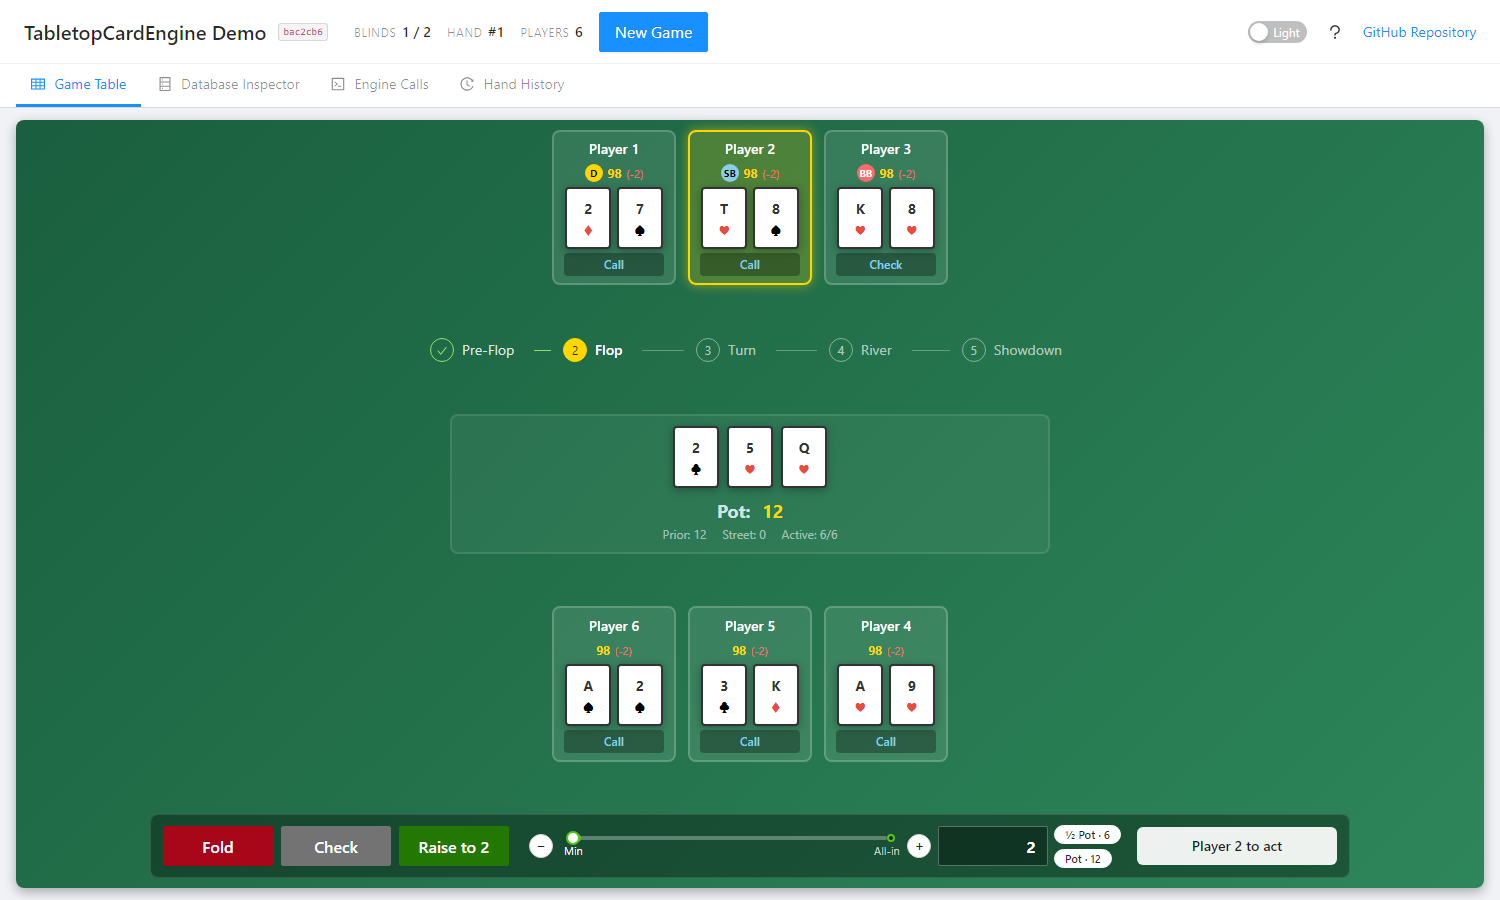
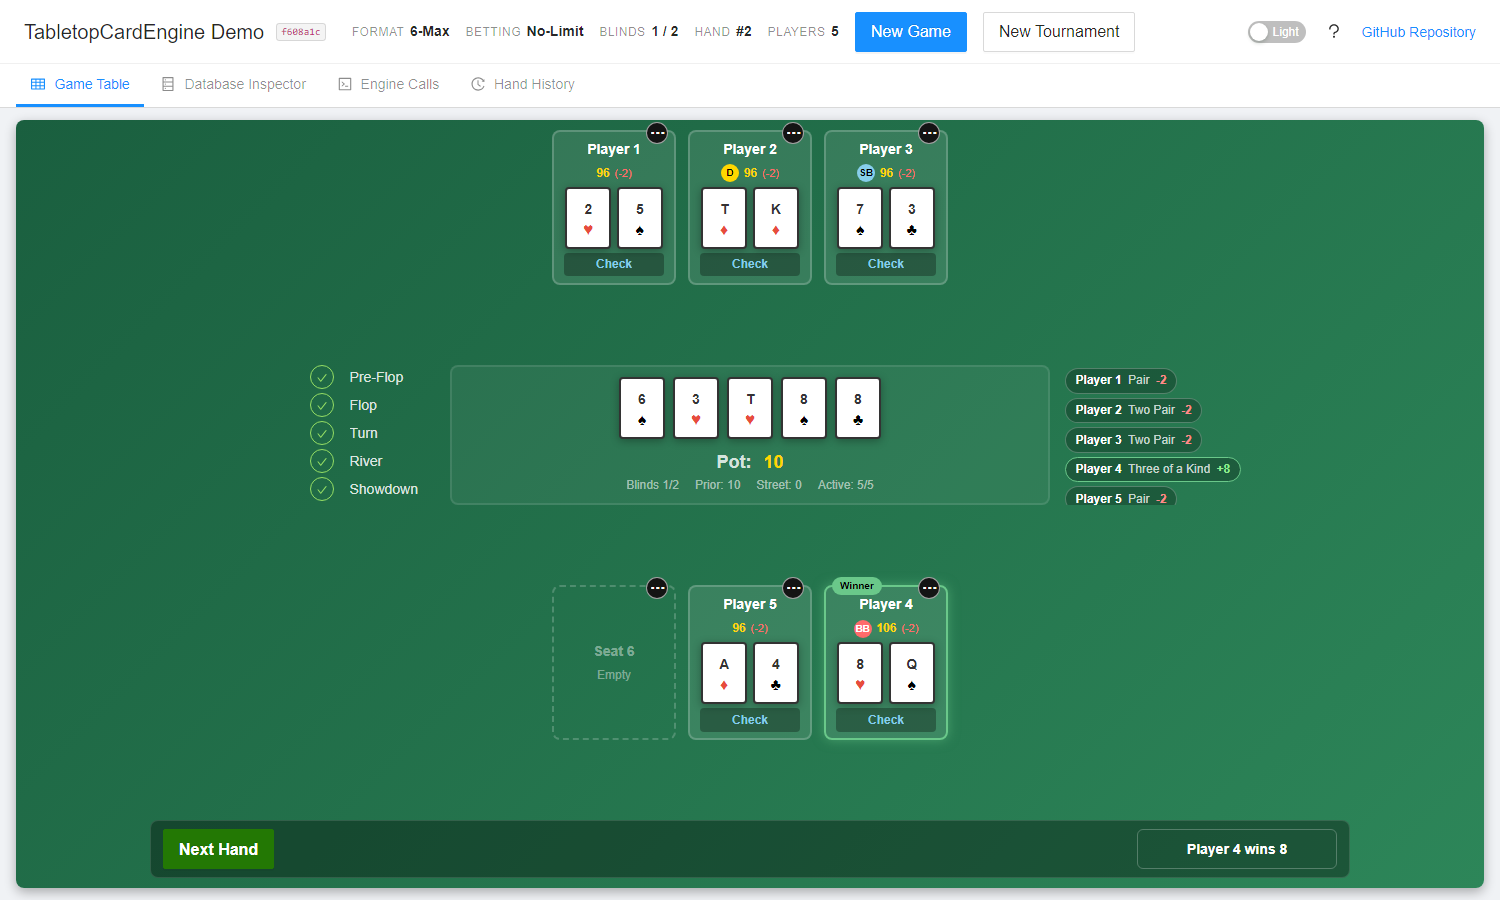
ci(demo): deploy the demo from a signed demo-* tag and refresh the README screenshot (#811)
deploy-demo.yml also accepts demo-YYYY.MM.N, dispatched by hand, with the same
signature check as a release tag. Docs updated; demo.png retaken at 1500x900.

diff --git a/docs/release-process.md b/docs/release-process.md
@@ -66,13 +66,13 @@ A failed tag verification in CI (the tag is unsigned, lightweight, or signed by 
 | Stage | Workflow | Waits for | Runs | Attestations |
 |---|---|---|---|---|
 | `create-release` | `create-release.yml` | `build`, `providers`, `docker` | every tag | none |
-| `deploy-demo` | `deploy-demo.yml` | `build`, `providers` | a tag without `-` only; its job also skips itself while the repository is private | none |
+| `deploy-demo` | `deploy-demo.yml` | `build`, `providers` | a tag without `-` only (from `release.yml`); by hand also a `demo-YYYY.MM.N` tag (see [Deploying the demo between releases](#deploying-the-demo-between-releases)) | none |
 | `publish-nuget` | `publish-nuget.yml` | `create-release` | only when `TCE_PUBLISH` is `enabled` (see [Publishing](#publishing)) | `.nupkg`, `.snupkg`, and extracted DLLs |
 | `publish-docker` | `publish-docker.yml` | `create-release` | only when `TCE_PUBLISH` is `enabled` | pushed image digests |
 
 - `create-release.yml` writes the notes with `git-cliff --latest` and creates the GitHub Release with them. The release carries **no packages**: no `.nupkg`, `.snupkg` or image is attached, and `publish-nuget.yml` packs from the tag itself. If the release already exists, the workflow fails with an error; deleting it is the maintainer's decision.
 - A tag that contains `-` (`v1.0.0-preview.1`, `v1.0.0-rc.1`) makes a pre-release.
-- Each of the four workflows checks out `refs/tags/<tag>` with full history, because MinVer reads the version from the tag at `HEAD`, and rejects a `tag` that is not `vX.Y.Z` or `vX.Y.Z-suffix` or does not exist.
+- Each of the four workflows checks out `refs/tags/<tag>` with full history, because MinVer reads the version from the tag at `HEAD`, and rejects a `tag` that is not `vX.Y.Z` or `vX.Y.Z-suffix` (`deploy-demo.yml` also accepts `demo-YYYY.MM.N`) or does not exist.
 - A failure in `build`, `providers` or `docker` leaves no release. The fix is a new tag, never a moved one.
 
 ### Re-running one stage
@@ -87,6 +87,22 @@ gh workflow run publish-docker.yml -f tag=v1.0.0-preview.1
 ```
 
 The tag comes from the input, never from the branch the dispatch runs on. A manual run does not repeat the verification jobs of `release.yml`, so run a stage by hand only for a tag whose release run got past them.
+
+### Deploying the demo between releases
+
+When the demo changed and the change should go live before the next release, deploy it from a **demo tag** instead of a release tag. A `v*` tag would publish packages and images, which a demo-only change must not do.
+
+```bash
+git tag -s demo-2026.11.1 -m "Demo 2026.11.1" <commit on main>
+git push origin demo-2026.11.1
+gh workflow run deploy-demo.yml -f tag=demo-2026.11.1
+```
+
+- The name is `demo-YYYY.MM.N`: the year, the two-digit month and a counter within the month. `deploy-demo.yml` rejects any other name, a branch name and a SHA.
+- The tag is annotated and signed on the YubiKey like a release tag, and `deploy-demo.yml` runs the same signature check (`eng/verify-tag.sh`; see [Signing a release tag](#signing-a-release-tag)). It is never moved or re-signed: a bad deploy gets the next number.
+- Pushing the tag runs nothing, because `release.yml` triggers on `v*` only. The deploy is the manual dispatch. MinVer reads only `v` tags, so the demo's version is unchanged and its header badge shows the commit.
+- The next stable release deploys the demo again anyway.
+- The tag ruleset of the repository must protect `demo-*` the way it protects `v*` (a manual step by the maintainer).
 
 ### Publishing
 

diff --git a/docs/task-run.md b/docs/task-run.md
@@ -465,11 +465,11 @@ renumber.
     `eng/verify-packages.sh` on the packed output, the browser gate), `providers` (the provider matrix of fact 28) and `docker` (a matrix over the three targets; builds and checks the label; never pushes).
     It then calls, with `uses:` and `with: tag: ${{ github.ref_name }}`, `create-release.yml` (needs `build`, `providers` and `docker`; the only
     caller job with `contents: write`; creates the GitHub Release with the git-cliff notes and no packages, a pre-release when the tag has `-`, and fails if the release already exists),
-    `deploy-demo.yml` (for a tag without `-`; needs `build` and `providers`, not the release), and `publish-nuget.yml` and `publish-docker.yml` (both need `create-release`).
+    `deploy-demo.yml` (for a tag without `-`; needs `build` and `providers`, not the release; by hand it also takes a signed `demo-YYYY.MM.N` tag, which `release.yml` never sees), and `publish-nuget.yml` and `publish-docker.yml` (both need `create-release`).
     `publish-nuget.yml` packs from the tag, verifies the packages and symbol packages, attests them, logs in with `NuGet/login` and pushes; `publish-docker.yml` logs in to Docker Hub, builds and pushes each target, attests the image digest, checks the version label and pushes the stable target tag. Their jobs run only when the repository variable `TCE_PUBLISH` is `enabled`, which it is not, and the gate sits inside
     the called workflow, so a manual dispatch honours it too. Each of the four has both `workflow_call` and
     `workflow_dispatch` with one required string input `tag`, so one stage can be re-run by hand for an existing tag (`gh workflow run publish-nuget.yml -f tag=v1.0.0-preview.1`).
-    Each job first verifies the tag signature (in the called workflows only; `release.yml` does it in its own `verify-tag` job), then rejects a `tag` that is not `vX.Y.Z[-suffix]`, checks out `refs/tags/<tag>`, fails when the tag does not exist, and reads the tag from `inputs.tag` only, never from
+    Each job first verifies the tag signature (in the called workflows only; `release.yml` does it in its own `verify-tag` job), then rejects a `tag` that is not `vX.Y.Z[-suffix]` (`deploy-demo.yml` also accepts `demo-YYYY.MM.N`), checks out `refs/tags/<tag>`, fails when the tag does not exist, and reads the tag from `inputs.tag` only, never from
     `GITHUB_REF_NAME` or `github.ref_name`, which on a manual dispatch is the branch. A release created with `GITHUB_TOKEN` starts no
     other workflow, so the stages are called rather than chained with `on: release` or `workflow_run`. Every workflow declares a `permissions:` block, which means every scope it
     does not list is dropped to *none*; a called workflow gets no more than its caller job grants, which is why

diff --git a/docs/tasks-planning.md b/docs/tasks-planning.md
@@ -42,10 +42,9 @@ needs Docker), and the documentation site build (needs Docker). The evidence for
 told to. The workflows are `Release` (`release.yml`, the only one a pushed `v*` tag triggers) and the four it calls,
 each of which can also be run by hand for an existing tag (`workflow_dispatch` with a `tag` input, see
 `release-process.md`): `Create GitHub Release` (`create-release.yml`), `Deploy demo to GitHub Pages`
-(`deploy-demo.yml`, stable releases only), `Publish to nuget.org` (`publish-nuget.yml`) and `Publish to
-Docker Hub` (`publish-docker.yml`); the last two are placeholders gated by `TCE_PUBLISH`. `gh workflow list --all` shows
-`Deploy demo to GitHub Pages` as `disabled_manually`, and its job skips itself while the repository is
-private; it is enabled again when the repository goes public. The old `CI` workflow is gone.
+(`deploy-demo.yml`, stable releases, or a signed `demo-YYYY.MM.N` tag dispatched by hand), `Publish to nuget.org` (`publish-nuget.yml`) and `Publish to
+Docker Hub` (`publish-docker.yml`); the last two are placeholders gated by `TCE_PUBLISH`. The repository is public, and
+`gh workflow list --all` shows `Deploy demo to GitHub Pages` as `active`. The old `CI` workflow is gone.
 The `Release` workflow is enabled and runs only on a pushed `v*` tag; each run spends the account's Actions minutes.
 
 ## 1. Establish the facts before writing a word

diff --git a/docs/adr/0010-release-signing.md b/docs/adr/0010-release-signing.md
@@ -73,6 +73,14 @@ The agent runner commits to the repository with the maintainer's configured git 
 repository or in the workflow (and a PIN prompt that a workflow cannot answer), and every commit
 would wait for a touch on a security key that is in the maintainer's possession offline. Impractical.
 
+## Addendum: demo deploy tags
+
+The demo can be deployed between releases from an annotated tag `demo-YYYY.MM.N`, dispatched by
+hand to `deploy-demo.yml`. Such a tag is signed and verified exactly like a release tag:
+`eng/verify-tag.sh` does not look at the tag's name, it requires an annotated tag signed by a key in
+`.github/allowed_signers` on `main`, and a failed verification is fatal and not overridable. A demo
+tag is never moved or re-signed either.
+
 ## Consequences
 
 - **The next issues of the milestone implement this record.** This issue adds the verification
